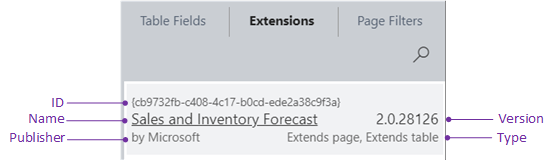
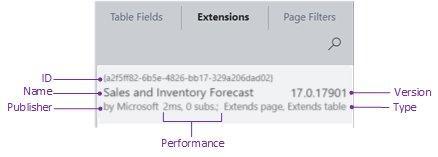
Deliv376290 al method trace (#2156)

diff --git a/dev-itpro/administration/configure-server-instance.md b/dev-itpro/administration/configure-server-instance.md
@@ -2,11 +2,10 @@
 title: Microsoft Dynamics 365 Business Central Server Configuration
 description: Configure and modify settings in the Setup or Installed Business Central Server using the Administration Console and PowerShell Cmdlets.
 author: jswymer
-
 ms.tgt_pltfrm: na
 ms.topic: article
 ms.service: "dynamics365-business-central"
-ms.date: 10/01/2020
+ms.date: 10/31/2020
 ms.author: jswymer
 ---
 # Configuring Business Central Server
@@ -65,6 +64,7 @@ The following table describes fields on the **General** tab in the [!INCLUDE[adm
 
 |Setting|Key Name|[!INCLUDE[bp_tabledescription](../developer/includes/bp_tabledescription_md.md)]|  
 |-------|--------|-------------------------------------------------------------------|
+|AL Function Logging Threshold - Application Insights|ALLongRunningFunctionTracingThresholdForApplicationInsights|Specifies the amount of time (in milliseconds) that an AL function can run before a warning event is recorded in the partner's Application Insights resource trace log. If you don't want a threshold, set the value to -1. <br /><br />To collect this telemetry data, the **Application Insights Instrumentation Key** setting must be configured. For information about analyzing this telemetry, see [Analyzing Long Running AL Methods Telemetry](telemetry-al-method-trace.md).<br /><br />Default: -1<br />Dynamically Updatable: Yes<br /><br />**APPLIES TO:** [!INCLUDE[prodshort](../developer/includes/prodshort.md)] 2020 release wave 2 (version 17.1) and later.|
 |Application Insights Instrumentation Key|ApplicationInsightsInstrumentationKey|Specifies the instrumentation key of the Microsoft Azure Application Insights resource to use for gathering and analyzing telemetry data emitted by the server instance. When this setting is configured, the server instance will send telemetry data to Application Insights for analysis and presentation.<br /><br /> This setting only applies to a server instance that is configured as a single-tenant instance (**Multitenant** setting is disabled). For a multitenant server instance, this setting is ignored. You set the Application Insights instrumentation key on a per-tenant basis, when you mount tenants.<br /><br />For more information, see [Enable Sending Telemetry to Application Insights](telemetry-enable-application-insights.md).<br /><br />Default: empty<br />Dynamically Updatable: No|  
 |Build Restriction|ClientBuildRestriction|Specifies what happens when a [!INCLUDE[prodshort](../developer/includes/prodshort.md)] client tries to connect to the [!INCLUDE[server](../developer/includes/server.md)] instance when the client is running a different build version of [!INCLUDE[prodshort](../developer/includes/prodshort.md)] than the server instance.<br /><br /> Values:<br /><br />**AlwaysConnect**<br /><br />**WarnClient**<br /> Before connecting the client to the server instance, a message appears that informs the user that the build versions for the client and server instance are different. The user can choose to continue or cancel the connection.<br /><br /> **DoNotAllow**<br /> A message appears that informs the user that the client and server instance build versions are different. The client doesn't connect to the server instance.<br /><br /> **Note:** With the [!INCLUDE[nav_web](../developer/includes/nav_web_md.md)] and [!INCLUDE[nav_tablet](../developer/includes/nav_tablet_md.md)], this setting compares the build version of the [!INCLUDE[webserver](../developer/includes/webserver.md)] on IIS with the [!INCLUDE[server](../developer/includes/server.md)] instance. It controls the connection between [!INCLUDE[webserver](../developer/includes/webserver.md)] and the server instance.<br /><br /> Default: WarnClient<br />Dynamically Updatable: No|  
 |Certificate Thumbprint|ServicesCertificateThumbprint|If you use security certificates to protect communications between [!INCLUDE[server](../developer/includes/server.md)] and client services or web services over an open or wide-area network, you must provide the certificate thumbprint to [!INCLUDE[server](../developer/includes/server.md)] by updating this setting. For more information, see [Using Security Certificates](../deployment/implement-security-certificates-production-environment.md).<br /><br />Default: <br />Dynamically Updatable: No|  
@@ -76,6 +76,7 @@ The following table describes fields on the **General** tab in the [!INCLUDE[adm
 |  Diagnostic Trace Level  |TraceLevel|  Specifies the lowest severity level of custom telemetry events to be emitted and recorded in the event log for the [!INCLUDE[server](../developer/includes/server.md)] instance. The events include system telemetry trace events and custom telemetry events. Telemetry events have IDs from  700-706. <br /><br />The setting has the following values, which correspond to the event severity levels (listed from highest to lowest level): **Critical**, **Error**, **Warning**, **Normal** (this value corresponds to the **Information** level), **Verbose**, and **Off**.<br /><br />You use this setting to filter out lower-level events from the log. For example, if you set this setting to **Error**, only **Error** and **Critical** events will be logged.<br /><br />Set to **Off** if you don't want to record telemetry events. When set to **Off**, events aren't emitted.<br /><br />**Note:** Telemetry trace events are recorded in the [!INCLUDE[server](../developer/includes/server.md)] channel logs, which you can see in Event Viewer, under **Applications and Services Logs** > **Microsoft** > **DynamicsNAV** > **Common** > **Admin**.<br /><br />Default: Normal<br />Dynamically Updatable: Yes|  
 |Diagnostic Trace Level for External Proxies|ExternalTraceLevel|Specifies the lowest severity level of telemetry events from external proxies that you want the [!INCLUDE[server](../developer/includes/server.md)] instance to emit if an error related to the external system occurs on the server instance. This setting pertains to systems and components that [!INCLUDE[prodshort](../developer/includes/prodshort.md)] integrates with, like [!INCLUDE[crm_md](../developer/includes/crm_md.md)] (CRM/Xrm).<br /><br />The server instance listens for event traces from the external proxy. If an error occurs on the server instance, it will emit the last 10 telemetry trace events from the external proxy. The trace events can then be recorded in the Windows event log or picked up by other event trace collection tools.<br /><br />The setting has the following values, which correspond to the event severity levels (listed from highest to lowest level): **Critical**, **Error**, **Warning**, **Information**, **Verbose**, and **Off**.<br /><br />Events that have a lower severity level than the set value won't be emitted. For example, if you set this setting to **Error**, only **Error** and **Critical** events will be emitted. Set to **Off** if you don't want to emit any of these events.<br /><br />Default: Error<br />Dynamically Updatable: Yes| 
 |Disable Token-Signing Certificate Validation|DisableTokenSigningCertificateValidation|Specifies whether to enable or disable the validation of the token-signing certificate used by Active Directory Federation Services (AD FS). If the check box is cleared (or the value set to `false`), the validation is enabled. If the check box is selected (or the value is set to `true`), then validation is disabled.<br /><br />Disable token signing certificate validation when configuring Azure Active Directory authentication with single sign-on.<br /><br />Default: Checkbox cleared; set to `false`. <br />Dynamically Updatable: No |
+|Enable AL Function Timing|ALFunctionTimingEnabled|Specifies whether AL function timing is enabled. When enabled, data about AL extension performance will be collected and can be viewed in Application Insights and page inspection. For more information, see [Analyzing Long Running AL Methods Telemetry](telemetry-al-method-trace.md) and [Inspecting and Troubleshooting Pages](../developer/devenv-inspecting-pages.md).<br /><br />Default: Enables <br />Dynamically Updatable: Yes<br /><br />**APPLIES TO:** [!INCLUDE[prodshort](../developer/includes/prodshort.md)] 2020 release wave 2 (version 17.1) and later.|
 |Enable Certificate Validation|ServicesCertificateValidationEnabled|Specifies whether validation is done on the security certificate.<br /><br /> Default: Enabled<br />Dynamically Updatable: No|  
 |Enable Debugging|EnableDebugging|Specifies whether the [!INCLUDE[server](../developer/includes/server.md)] instance starts with debugging enabled.<br /><br /> If this option is enabled, the following occurs:<br /><br /> When the client first connects, all C\# files for the application are generated. C\# files persist between [!INCLUDE[server](../developer/includes/server.md)] restarts. Application objects are compiled with debug information.<br /><br /> Default: Not enabled<br />Dynamically Updatable: No|  
 |Enable Event Logging to Windows Application Log|EnableApplicationChannelLog|Specifies whether to record admin and operational type events in the **Windows Application** log. This setting will record errors, warnings, and information messages that occur on server instance. The events are stored on the computer that is running [!INCLUDE[server](../developer/includes/server.md)].<br /><br /> Because [!INCLUDE[server](../developer/includes/server.md)] instance events are always logged to the **Application and Services Logs**, you can disable logging [!INCLUDE[server](../developer/includes/server.md)] instance events in the Windows Application log and not lose any data. For more information, see [Monitoring Business Central Server Events Using Event Viewer](monitor-server-events-windows-event-log.md) and [Disable Logging Events to the Windows Application Log](disable-Logging-Events-Windows-Application-Log.md).<br /><br /> **Important:** If you 're using System Center Operations Manager to monitor [!INCLUDE[server](../developer/includes/server.md)] instances, don't disable logging to the Windows Application log. If you do, monitoring won't work.<br /><br />Default: Enabled<br />Dynamically Updatable: No|
@@ -128,7 +129,7 @@ The following table describes fields on the **Database** tab in the [!INCLUDE[ad
 |SQL Command Timeout|SqlCommandTimeout|Specifies the contextual time-out for a SQL command.<br /><br /> Default: 0:30:00<br />Dynamically Updatable: No|
 |SQL Connection Idle Timeout|SqlConnectionIdleTimeout|Specifies the time that a SQL connection can remain idle before being closed. The value has the format hh:mm:ss.<br /><br /> Default: 00:05:00<br />Dynamically Updatable: Yes|
 |SQL Connection Timeout|SqlConnectionTimeout|Specifies the time to wait while trying to connect to the database before stopping the attempt and generating an error. This setting also applies to begin, rollback, and commit of transactions. <br /><br />The value has the format hh:mm:ss.<br /><br /> Default: 00:01:30<br />Dynamically Updatable: Yes| 
-|SQL Management Command Timeout|SqlManagementCommandTimeout|Specifies the timeout for SQL commands related to management operations, for example schema synchronization and company management operations. <br /><br />This setting enables you to set a different timeout for management operations than for normal, day-to-day, runtime operations like a Record.FINDSET, which are controlled by the **SQLCommand Timeout** setting.<br /><br /> When a negative value is specified for this setting, the **SQL Command Timeout** will be used. The value has the format hh:mm:ss.<br /><br /> Default: -1<br />Dynamically Updatable: Yes| 
+|SQL Management Command Timeout<sup>[\[1\]](#1)</sup>|SqlManagementCommandTimeout|Specifies the timeout for SQL commands related to management operations, for example schema synchronization and company management operations. <br /><br />This setting enables you to set a different timeout for management operations than for normal, day-to-day, runtime operations like a Record.FINDSET, which are controlled by the **SQLCommand Timeout** setting.<br /><br /> When a negative value is specified for this setting, the **SQL Command Timeout** will be used. The value has the format hh:mm:ss.<br /><br /> Default: -1<br />Dynamically Updatable: Yes| 
 |Enable SQL Parameters by Ordinal|SqlParametersByOrdinal|Specifies whether parameters in SQL statements are referenced by their ordinal number.<br /><br /> Enabling this setting improves performance when using buffered inserts.<br /><br /> Default: Enabled<br />Dynamically Updatable: No|
 |SQL Query Logging Threshold|SqlLongRunningThreshold|Specifies the amount of time (in milliseconds) that an SQL query can run before a warning event is recorded in the application log for the server instance. If this threshold is exceeded, the following event is logged: Action completed successfully, but it took longer than the given threshold.<br /><br /> Default: 1000<br />Dynamically Updatable: Yes|
 
@@ -169,8 +170,8 @@ The following table describes fields on the **Client Services** tab in the [!INC
 |Enable SSL|SOAPServicesSSLEnabled|Specifies whether SSL \(https\) is enabled for the SOAP web service port. For more information, see [Using Security Certificates with Business Central On-Premises](../deployment/implement-security-certificates-production-environment.md).<br /><br /> Default: Not enabled<br />Dynamically Updatable: No|  
 |Max Connections|SOAPMaxConnections|Specifies the maximum number of simultaneous SOAP requests on the server instance (for all tenants). When the limit is exceeded, an error occurs. If you don'tt want a limit, set the value **0**.<br /><br /> Default: 0<br />Dynamically Updatable: Yes|  
 |Max Connections Per Tenant|SOAPMaxConnectionsPerTenant|Specifies the maximum number of simultaneous SOAP requests per tenant. When the limit is exceeded, an error occurs. If you do not want a limit, set the value **0**.<br /><br /> Default: 0<br />Dynamically Updatable: Yes|
-|Max Concurrent Requests|SOAPMaxConcurrentRequests|Specifies the maximum number of SOAP requests per tenant that the server instance can process at the same time. If you don't want a limit, set the value `0`.<br /><br />Default: 5<br />Dynamically Updatable: Yes|
-|Max Queued Requests|SOAPRequestQueueSize|Specifies the maximum number of pending SOAP connections per tenant waiting to be processed. When the limit is exceeded, a 429 (Too Many Requests) error occurs. If you don't want a limit, set the value `0`.<br /><br />Default: 95<br />Dynamically Updatable: Yes|
+|Max Concurrent Requests<sup>[\[1\]](#1)</sup>|SOAPMaxConcurrentRequests|Specifies the maximum number of SOAP requests per tenant that the server instance can process at the same time. If you don't want a limit, set the value `0`.<br /><br />Default: 5<br />Dynamically Updatable: Yes|
+|Max Queued Requests<sup>[\[1\]](#1)</sup>|SOAPRequestQueueSize|Specifies the maximum number of pending SOAP connections per tenant waiting to be processed. When the limit is exceeded, a 429 (Too Many Requests) error occurs. If you don't want a limit, set the value `0`.<br /><br />Default: 95<br />Dynamically Updatable: Yes|
 |Max Message Size|SOAPServicesMaxMsgSize|Specifies the maximum permitted size of a SOAP web services request, in kilobytes. When a request exceeds this limit, a 413: Request Entity Too Large error occurs.<br /><br />**Important:** This setting also pertains to OData web services.<br /><br /> Default: 65536<br />Dynamically Updatable: No| 
 |Port|SOAPServicesPort|The listening HTTP port for SOAP web services.<br /><br /> Valid range: 1 - 65535<br /> Default: 7047<br />Dynamically Updatable: No|  
 |SOAP Base URL|PublicSOAPBaseUrl|Specifies the root of the URLs that are used to access SOAP web services. For example, you can change the value if you want to change the externally facing endpoint.<br /><br /> The base URL must have the following syntax:<br /><br /> http\[s\]://*hostname*:*port*/*instance*/WS/<br /><br /> This field maps to the `PublicSOAPBaseUrl` setting in the CustomSettings.config file for the [!INCLUDE[server](../developer/includes/server.md)] instance.<br /><br />Default: The SOAP URL for the server instance<br />Dynamically Updatable: No|  
@@ -193,10 +194,10 @@ The following table describes fields on the **Client Services** tab in the [!INC
 |Max Page Size|ODataServicesMaxPageSize|Specifies the maximum number of entities returned per page of OData results. For more information, see [Server-Driven Paging in OData Web Services](../webservices/Server-Driven-Paging-in-OData-Web-Services.md).<br /><br /> Default: 20000<br />Dynamically Updatable: No|  
 |OData Base URL|PublicODataBaseUrl|Specifies the root of the URLs that are used to access OData web services. For example, you can change the value if you want to change the externally facing endpoint.<br /><br /> The base URL must have the following syntax:<br /><br /> http\[s\]://*hostname*:*port*/*instance*/OData/<br /><br /> This field maps to the `PublicODataBaseUrl` setting in the CustomSettings.config file for the [!INCLUDE[server](../developer/includes/server.md)] instance.<br /><br /> Default: The OData URL for the server instance<br />Dynamically Updatable: No|
 |Port|ODataServicesPort|The listening HTTP port for [!INCLUDE[prodshort](../developer/includes/prodshort.md)] OData web services.<br /><br /> Valid range: 1 - 65535<br /> Default: 7048<br />Dynamically Updatable: No|
-|V3 Max Concurrent Requests|ODataV4MaxConcurrentRequests|Specifies the maximum number of OData V3 requests per tenant that the server instance can process at the same time. Requests that exceed the limit will wait in the queue until a time slot becomes available. If you don't want a limit, set the value `0`.<br /><br />Default: 5<br />Dynamically Updatable: Yes|
-|V3 Max Queued Requests|ODataV4MaxRequestQueueSize|Specifies the maximum number of pending OData V3 requests per tenant waiting to be processed. When the limit is exceeded, a 429 (Too Many Requests) error occurs. If you don't want a limit, set the value `0`.<br /><br />Default: 95<br />Dynamically Updatable: Yes|
-|V4 Max Concurrent Requests|ODataV4MaxConcurrentRequests|Specifies the maximum number of OData V4 requests per tenant that the server instance can actively process at the same time. Requests that exceed the limit will wait in the queue until a time slot becomes available. If you don't want a limit, set the value `0`.<br /><br />Default: 5<br />Dynamically Updatable: Yes|
-|V4 Max Queued Requests|ODataV4MaxRequestQueueSize|Specifies the maximum number of pending OData V4 requests per tenant waiting to be processed. When the limit is exceeded, a 429 (Too Many Requests) error occurs. If you don't want a limit, set the value `0`.<br /><br />Default: 95<br />Dynamically Updatable: Yes|
+|V3 Max Concurrent Requests<sup>[\[1\]](#1)</sup>|ODataV4MaxConcurrentRequests|Specifies the maximum number of OData V3 requests per tenant that the server instance can process at the same time. Requests that exceed the limit will wait in the queue until a time slot becomes available. If you don't want a limit, set the value `0`.<br /><br />Default: 5<br />Dynamically Updatable: Yes|
+|V3 Max Queued Requests<sup>[\[1\]](#1)</sup>|ODataV4MaxRequestQueueSize|Specifies the maximum number of pending OData V3 requests per tenant waiting to be processed. When the limit is exceeded, a 429 (Too Many Requests) error occurs. If you don't want a limit, set the value `0`.<br /><br />Default: 95<br />Dynamically Updatable: Yes|
+|V4 Max Concurrent Requests<sup>[\[1\]](#1)</sup>|ODataV4MaxConcurrentRequests|Specifies the maximum number of OData V4 requests per tenant that the server instance can actively process at the same time. Requests that exceed the limit will wait in the queue until a time slot becomes available. If you don't want a limit, set the value `0`.<br /><br />Default: 5<br />Dynamically Updatable: Yes|
+|V4 Max Queued Requests<sup>[\[1\]](#1)</sup>|ODataV4MaxRequestQueueSize|Specifies the maximum number of pending OData V4 requests per tenant waiting to be processed. When the limit is exceeded, a 429 (Too Many Requests) error occurs. If you don't want a limit, set the value `0`.<br /><br />Default: 95<br />Dynamically Updatable: Yes|
 |Timeout|ODataServicesOperationTimeout |Specifies the maximum amount of time that the server instance can allocate to a single OData request. When the limit is exceeded, a 408 (Request Timeout) error occurs. <br /><br />If you don't want a limit, set the value to `MaxValue`.<br /><br /> Time format: hh:mm:ss<br />Default: 00:08:00<br />Dynamically Updatable: Yes|  
 
 > [!IMPORTANT]  
@@ -345,7 +346,7 @@ The following table describes fields on the **Extensions** tab in the [!INCLUDE[
 |  Setting  |Key Name|  Description  |
 |-----------|--------|---------------|
 |Overwrite Existing Translations|OverwriteExistingTranslations|Specifies whether to overwrite existing text translations in the base application with text translations included in extensions.<br /><br />Default: Enabled<br />Dynamically Updatable: No|
-|Required Extensions|RequiredExtensions|Specifies a list of required extensions that can't be uninstalled by using the **Extension Management** page in the client. The extensions can still be uninstalled by using the [Uninstall-NAVApp cmdlet](/powershell/module/microsoft.dynamics.nav.apps.management/uninstall-navapp) of the [!INCLUDE[adminshell](../developer/includes/adminshell.md)].<br /><br />You specify an extension by its AppID (which is a GUID). When you've more than one extension, separate each AppID with a semicolon. The AppID for the BaseApp extension is 437dbf0e-84ff-417a-965d-ed2bb9650972 and System Application extension is 63ca2fa4-4f03-4f2b-a480-172fef340d3f. <br /><br /> Default: Blank or "" (empty string)<br />Dynamically Updatable: Yes<br /><br />**APPLIES TO:** [!INCLUDE[prodshort](../developer/includes/prodshort.md)] 2019 release wave 2|
+|Required Extensions|RequiredExtensions|Specifies a list of required extensions that can't be uninstalled by using the **Extension Management** page in the client. The extensions can still be uninstalled by using the [Uninstall-NAVApp cmdlet](/powershell/module/microsoft.dynamics.nav.apps.management/uninstall-navapp) of the [!INCLUDE[adminshell](../developer/includes/adminshell.md)].<br /><br />You specify an extension by its AppID (which is a GUID). When you've more than one extension, separate each AppID with a semicolon. The AppID for the BaseApp extension is 437dbf0e-84ff-417a-965d-ed2bb9650972 and System Application extension is 63ca2fa4-4f03-4f2b-a480-172fef340d3f. <br /><br /> Default: Blank or "" (empty string)<br />Dynamically Updatable: Yes<br /><br />**APPLIES TO:** [!INCLUDE[prodshort](../developer/includes/prodshort.md)] 2019 release wave 2 (version 17.0) and later|
 |Solution Version Extension|SolutionVersionExtension|Specifies the ID of the extension whose version number will show as the Application Version on the client's Help and Support page. Typically, you'd use the extension considered to be your solution's base application. If your solution uses the Microsoft Base Application, set the value to `437dbf0e-84ff-417a-965d-ed2bb9650972`. <br /><br /> Default: 00000000-0000-0000-0000-000000000000<br />Dynamically Updatable: Yes|
 
 ## <a name="Development"></a>Development Settings
@@ -363,7 +364,7 @@ The following table describes fields on the **Development** tab in the [!INCLUDE
 |Enable Debugging|EnableDebugging|Specifies whether the [!INCLUDE[server](../developer/includes/server.md)] instance starts with debugging enabled.<br /><br /> If this option is enabled, the following occurs:<br /><br /> When the client first connects, all C\# files for the application are generated. C\# files persist between [!INCLUDE[server](../developer/includes/server.md)] restarts. Application objects are compiled with debug information.<br /><br /> Default: Not enabled<br />Dynamically Updatable: No|
 |Enable Developer Service Endpoint|DeveloperServicesEnabled|Specifies whether the Developer service endpoint is enabled. This setting must be enabled to publish extensions and download symbols.<br /><br />- If the check box is selected, the extension can be published to the allowed extension target level. <br /><br />- If the check box isn't selected, the extension can't be published.<br /><br />- This setting can also be controlled from the .xml file.<br /><br /> Default: Not enabled (check box is cleared)<br />Dynamically Updatable: No|
 |Enable Loading Application Symbol References at Server Startup|EnableSymbolLoadingAtServerStartup|Specifies whether application symbol references should be loaded at server startup. This setting must be enabled to allow any symbol generation. If the setting isn't enabled, the **generatesymbolreference** setting doesn't have any effect. For more information, see [Running C/SIDE and AL Side-by-Side](../developer/devenv-running-cside-and-al-side-by-side.md).<br /><br />Default: Not enabled (check box is cleared)<br />Dynamically Updatable: No|
-|Enable Multithreaded Compilation of Published Extensions Service Endpoint|EnableMultithreadedCompilation|Specifies whether to use multiple threads for compiling AL extensions that are published to the server instance. Using multiple threads can make compilation faster, but might impact the responsiveness of other sessions that are running on the server instance.<br /><br /> Default: Enabled<br />Dynamically Updatable: No<br /><br />**APPLIES TO:** [!INCLUDE[prodshort](../developer/includes/prodshort.md)] 2019 release wave 2 |
+|Enable Multithreaded Compilation of Published Extensions Service Endpoint|EnableMultithreadedCompilation|Specifies whether to use multiple threads for compiling AL extensions that are published to the server instance. Using multiple threads can make compilation faster, but might impact the responsiveness of other sessions that are running on the server instance.<br /><br /> Default: Enabled<br />Dynamically Updatable: No<br /><br />**APPLIES TO:** [!INCLUDE[prodshort](../developer/includes/prodshort.md)] 2019 release wave 2 (version 17.0) and later.|
 |Enable SSL|DeveloperServicesSSLEnabled|Specifies whether SSL (HTTPS) is enabled for the developer web service port. <br /><br />SSL (Secure Sockets Layer) secures the connection for the web services. <br /><br />- If the check box is selected, then SSL is enabled. <br /><br />- If the check box isn't selected, the developer web service port can't establish a secure connection. <br /><br />Default: Not enabled (check box is cleared)<br />Dynamically Updatable: No|
 |Enable Test Automation|TestAutomationEnabled|Specifies whether test automation is enabled.<br /><br />For more information about test automation, see [Testing the Application Overview](../developer/devenv-testing-application.md).<br /><br />Default: Enabled<br />Dynamically Updatable: No|
 |HttpClient AL Function Maximum Timeout|NavHttpClientMaxTimeout|Specifies the maximum allowed timeout value that can be set for the HttpClient Timeout AL method.<br /><br />The value has the format HH:MM:SS.<br /><br />Default: 00:05:00<br />Dynamically Updatable: Yes|

diff --git a/dev-itpro/developer/devenv-inspecting-pages.md b/dev-itpro/developer/devenv-inspecting-pages.md
@@ -14,16 +14,16 @@ ms.author: jswymer
 
 # Inspecting and Troubleshooting Pages
 
-The [!INCLUDE[webclient](includes/webclient.md)] includes a page inspection feature that lets you get details about a page, providing insight into the page design, the different elements that comprise the page, and the source behind the data it displays. Page inspection helps you:
+The [!INCLUDE[webclient](includes/webclient.md)] includes a page inspection feature that lets you get details about a page. Page inspection provides insight into the page design, the different elements that form the page, and the source behind the data it displays. Page inspection helps you:
 
 - Learn the data model behind a page.
 - Discover pages and parts that can be reused in your application design.
-- Troubleshoot data issues without having to perform tasks like copying the production database, viewing the entire source table, or digging into SQL.
+- Troubleshoot data issues without having to do tasks like copying the production database, viewing the entire source table, or digging into SQL.
 - Debug the application, complementing [Designer](devenv-inclient-designer.md).
 
 ## Working with Page Inspection
 
-You start page inspection from the **Help & Support** page. Choose the question mark in the top right corner, choose **Help & Support**, and then choose **Inspect pages and data**. Or, you can just use the keyboard shortcut **Ctrl+Alt+F1**.
+You start page inspection from the **Help & Support** page. Choose the question mark in the top-right corner, choose **Help & Support**, and then choose **Inspect pages and data**. Or, you can just use the keyboard shortcut **Ctrl+Alt+F1**.
 
 The **Page inspection** pane opens on the side. The following figure illustrates the **Page Inspection** pane on the **Sales Order** page.
 
@@ -31,13 +31,19 @@ The **Page inspection** pane opens on the side. The following figure illustrates
 
 When the **Page Inspection** pane first opens, it shows information that pertains to the main page object.
 
-Use the keyboard or pointing device to move focus to different elements on the page. When you select a FactBox or a part on the main page, the bounding area is highlighted by a border, and the **Page Inspection** pane shows information about the selected element. For example, the previous figure shows information about the list part in the **Sales Order** page.
+Use the keyboard or pointing device to move focus to different elements on the page. When you select a FactBox or a part on the main page, a border will highlight the area. The **Page Inspection** pane then shows information about the selected element. For example, the previous figure shows information about the list part in the **Sales Order** page.
 
 As you navigate to other pages in the application, the **Page Inspection** pane will automatically update with page information as you move along.
 
 ## What Page Inspection Shows
 
-In short, the page inspection pane shows the information for the main page or page part, the page's source table (if any) and fields, extensions that affect the page, and current filters applied to the page. The following sections describe details about what is shown.
+The page inspection pane shows the information for the main page or page part, including:
+
+- The page's source table (if any) and fields.
+- Extensions that affect the page.
+- Current filters applied to the page.
+
+The following sections describe details about what is shown.
 
 > [!NOTE]
 > If you do not see all details described below, you might not have the required permissions. For more information, see [Controlling Access to Page Inspection Details](/dynamics365/business-central/across-inspect-page?#controlling-access-to-page-inspection).
@@ -47,7 +53,7 @@ In short, the page inspection pane shows the information for the main page or pa
 
 ### [Page](#tab/page)
 
-The **Page** field shows information about the main page or a selected (highlighted) sub-page in a part. The field shows the following information:
+The **Page** field shows information about the main page or a selected (highlighted) subpage in a part. The field shows the following information:
 
 - The name, as specified by its [Name property](properties/devenv-name-property.md)
 - The ID as specified by the [ID property](properties/devenv-id-property.md).
@@ -58,18 +64,18 @@ The **Page** field shows information about the main page or a selected (highligh
 
 - Role Center pages
     
-    If a page has the type Role Center, the **Table** field does not appear. Because the Role Center consists of several parts, there is no more information shown. To see more details, select the different parts that make up the Role Center.
+    If a page has the type Role Center, the **Table** field doesn't appear. Because the Role Center consists of several parts, there's no more information shown. To see more details, select the different parts that make up the Role Center.
 
 - Report request pages and previews
 
-    If you open a report request page or preview for inspection, the only information that is shown in the Page Inspection pane is the report's name and ID.
+    If you open a report request page or preview for inspection, the only information shown in the Page Inspection pane is the report's name and ID.
 
 - System parts, such as Links or Notes, and parts containing charts.
 
 
 ### [Table](#tab/table)
 
-If the page is associated with a source table, the **Table** field displays information about the source table of the main page or the selected page part, as specified by the page's [SourceTable property](properties/devenv-sourcetable-property.md). The **Table** field shows the following information:
+If the main page or the selected page part has a source table, the **Table** field displays information about the source table. The source table is specified by the page's [SourceTable property](properties/devenv-sourcetable-property.md). The **Table** field shows the following information:
 
 - The name, as specified by its [Name property](properties/devenv-name-property.md)
 - The ID as specified by the [ID property](properties/devenv-id-property.md).
@@ -78,14 +84,14 @@ If the page uses a query object as a data source, the table field shows the quer
 
 #### View Table
 
-If a page has a source table, the **View table** link is available. This  link will open the table in a separate browser window, allowing you to see all records and fields in the table.
+If a page has a source table, the **View table** link is available. This link opens the table in a separate browser window, so you can see all records and fields in the table.
 
 > [!NOTE]
 > To view a table, you must have read permission on the table and direct execute permission on the system object **1350 Run table**. This is granted by a permission set on your user account. For more information, see [Managing Users and Permissions](/dynamics365/business-central/ui-how-users-permissions).
 
 ### [Table Fields](#tab/tablefields)
 
-The **Table Fields** tab displays information about all fields in the source table for the current record, including those fields that do not appear on the page.
+The **Table Fields** tab displays information about all fields in the source table for the current record, including fields that don't appear on the page.
 
 ![Page Inspection Table Fields Tab](media/page-inspection-table-fields.png)
 
@@ -94,11 +100,11 @@ Each field is shown with the following information:
 - Field name as specified by the [Name property](properties/devenv-name-property.md).
 - Field number as specified by the [Field No property](properties/devenv-field-no.-property.md).
 - Data type as specified by the [Data Type property](properties/devenv-data-type-property.md).
-- If the field is a primary key, it is indicated by **PK**. A primary is  specified by the [Key property](properties/devenv-key-property.md).
+- If the field is a primary key, it's indicated by **PK**. A primary is  specified by the [Key property](properties/devenv-key-property.md).
 - Value of the field.
 - If the field is added by an extension, the name of the extension appears under the value.
 
-#### What field information is not shown
+#### What field information isn't shown
 
 - Page fields that are not bound to the source table by the [SourceExp property](properties/devenv-sourceexpr-property.md).
 - The value of fields that have a data type of blob, byte, media, or mediaset.
@@ -109,14 +115,26 @@ The **Extensions** tab displays extensions that are installed for the current en
 
 ![Page Inspection Extensions Tab](media/page-inspection-extensions.png)
 
-Except for the type, the data that is shown is defined in the extension's app.json file, which you configure during development. For more information, see [App.json](devenv-json-files.md#Appjson).
+Except for the type and performance information, the data that is shown is defined in the extension's app.json file, which you configure during development. For more information, see [App.json](devenv-json-files.md#Appjson).
+
+#### Type
 
 There are four different extension types:
 
 - **Adds page** indicates that the extensions adds the page object.
 - **Extends page** indicates that the extension modifies the page, like adding a field, action, or code. In AL, this is specified by a page extension object.
-- **Adds table** indicates that the extensions adds the table object.
+- **Adds table** indicates that the extension adds the table object.
 - **Extends table** indicates that the extension modifies the source table, like adding a field or code. In AL, this is specified by a table extension object.  
+
+#### Performance
+
+The performance information includes two values. The first value indicates the time (in milliseconds) it took to run the extension in the call stack. The second value indicates the number of event subscribers run in the extension.
+
+> [!TIP]
+> You can get more performance data for extensions by using Application Insights and viewing the AL method traces. For more information, see [Analyzing Long Running AL Methods Telemetry](../administration/telemetry-al-method-trace.md).
+
+> [!NOTE]
+> For [!INCLUDE[prodshort](includes/prodshort.md)] on-premises, the performance data will only be shown if AL function timing is enabled on the [!INCLUDE[server](includes/server.md)] instance. For more information, see [Configuring Business Central Server](../administration/configure-server-instance.md#General).  
 
 ## [Page Filters](#tab/pagefilters)
 

diff --git a/dev-itpro/administration/telemetry-al-method-trace.md b/dev-itpro/administration/telemetry-al-method-trace.md
@@ -8,7 +8,7 @@ ms.devlang: na
 ms.tgt_pltfrm: na
 ms.workload: na
 ms.search.keywords: administration, tenant, admin, environment, sandbox, telemetry
-ms.date: 10/01/2020
+ms.date: 10/31/2020
 ms.author: jswymer
 ---
 
@@ -16,10 +16,15 @@ ms.author: jswymer
 
 [!INCLUDE[prodshort](../includes/2020_releasewave2.md)]
 
-The Business Central server will emit telemetry about the execution time of long running AL methods, excluding the time spent in the database. The signal also includes a breakdown of how much time each event subscriber added to the total time. As a partner, this data gives you insight into bad performing code and enables you to troubleshoot performance issues caused by extensions.
+The [!INCLUDE[server](../developer/includes/server.md)] server will emit telemetry about the execution time of long running AL methods, excluding the time spent in the database. The signal also includes a breakdown of how much time each event subscriber added to the total time. As a partner, this data gives you insight into bad performing code and enables you to troubleshoot performance issues caused by extensions.
 
+<!--
 > [!NOTE]
 > Currently, this signal isn't enabled for [!INCLUDE[prodshort](../developer/includes/prodshort.md)] on-premises. For [!INCLUDE[prodshort](../developer/includes/prodshort.md)] online, it's enabled with a specific threshold on a case-by-case basis by the service.
+-->
+
+> [!NOTE]
+> To collect this telemetry for [!INCLUDE[prodshort](../developer/includes/prodshort.md)] on-premises, the **AL Function Timing** and **AL Function Logging Threshold - Application Insights** settings must be configured on the [!INCLUDE[server](../developer/includes/server.md)] instance. For more information, see [Configuring Business Central Server](configure-server-instance.md#General). With [!INCLUDE[prodshort](../developer/includes/prodshort.md)] online, this telemetry is enabled with a specific threshold on a case-by-case basis by the service.
 
 ## General dimensions
 
@@ -56,7 +61,7 @@ This table describes the different dimensions of a **Operation exceeded time thr
 |extensionPublisher|Specifies the publisher of the extension that was currently executing when the long-running threshold was exceeded and the trace was emitted.|
 |extensionVersion|Specifies the version of the extension that was currently executing when the long-running threshold was exceeded and the trace was emitted.|
 |extensionId|Specifies the ID of the extension that was currently executing when the long-running threshold was exceeded and the trace was emitted.|
-|longRunningThreshold|Specifies the time the defines a long-running AL method, after which the trace is emitted. The value has the format hh:mm:ss.sssssss. |
+|longRunningThreshold|Specifies the time that defines a long-running AL method, after which the trace is emitted. The value has the format hh:mm:ss.sssssss. |
 |telemetrySchemaVersion|Specifies the version of the [!INCLUDE[prodshort](../developer/includes/prodshort.md)] telemetry schema. |
 
 <!-- for 17.1 
